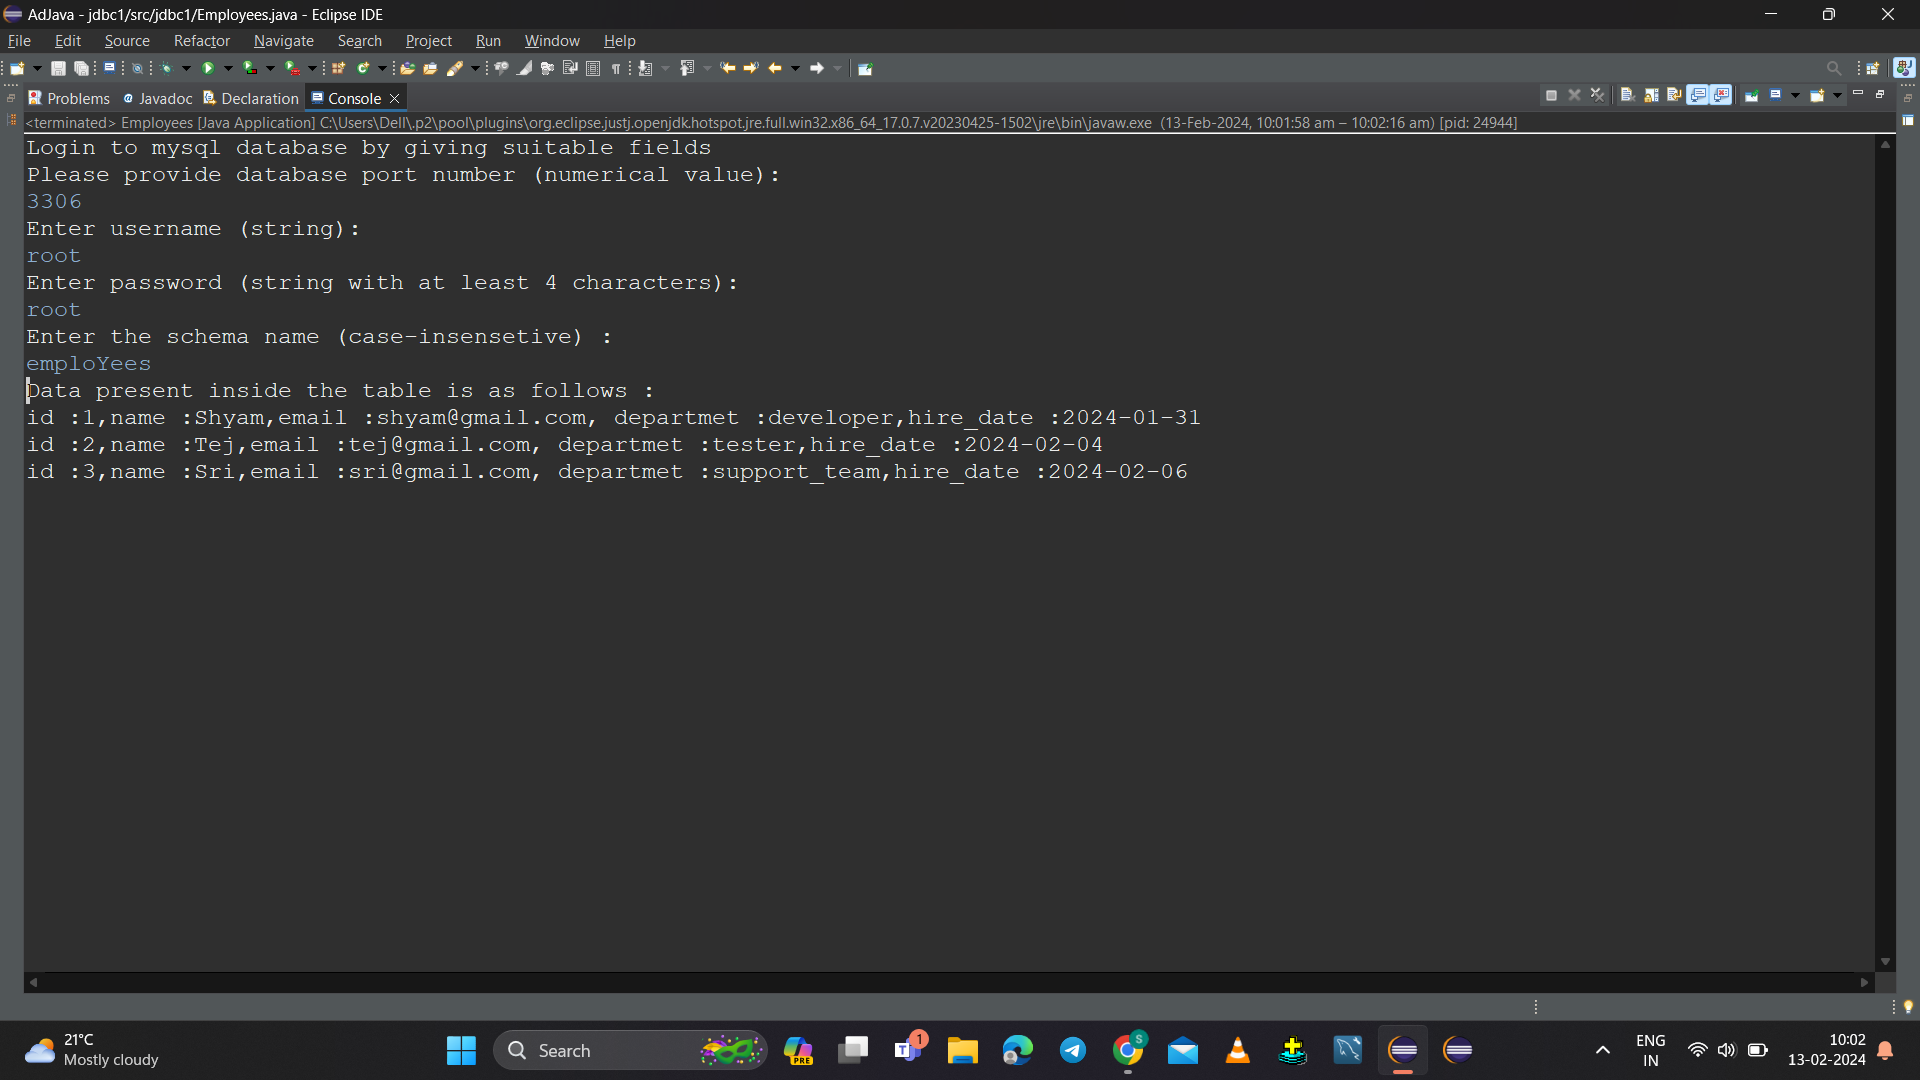
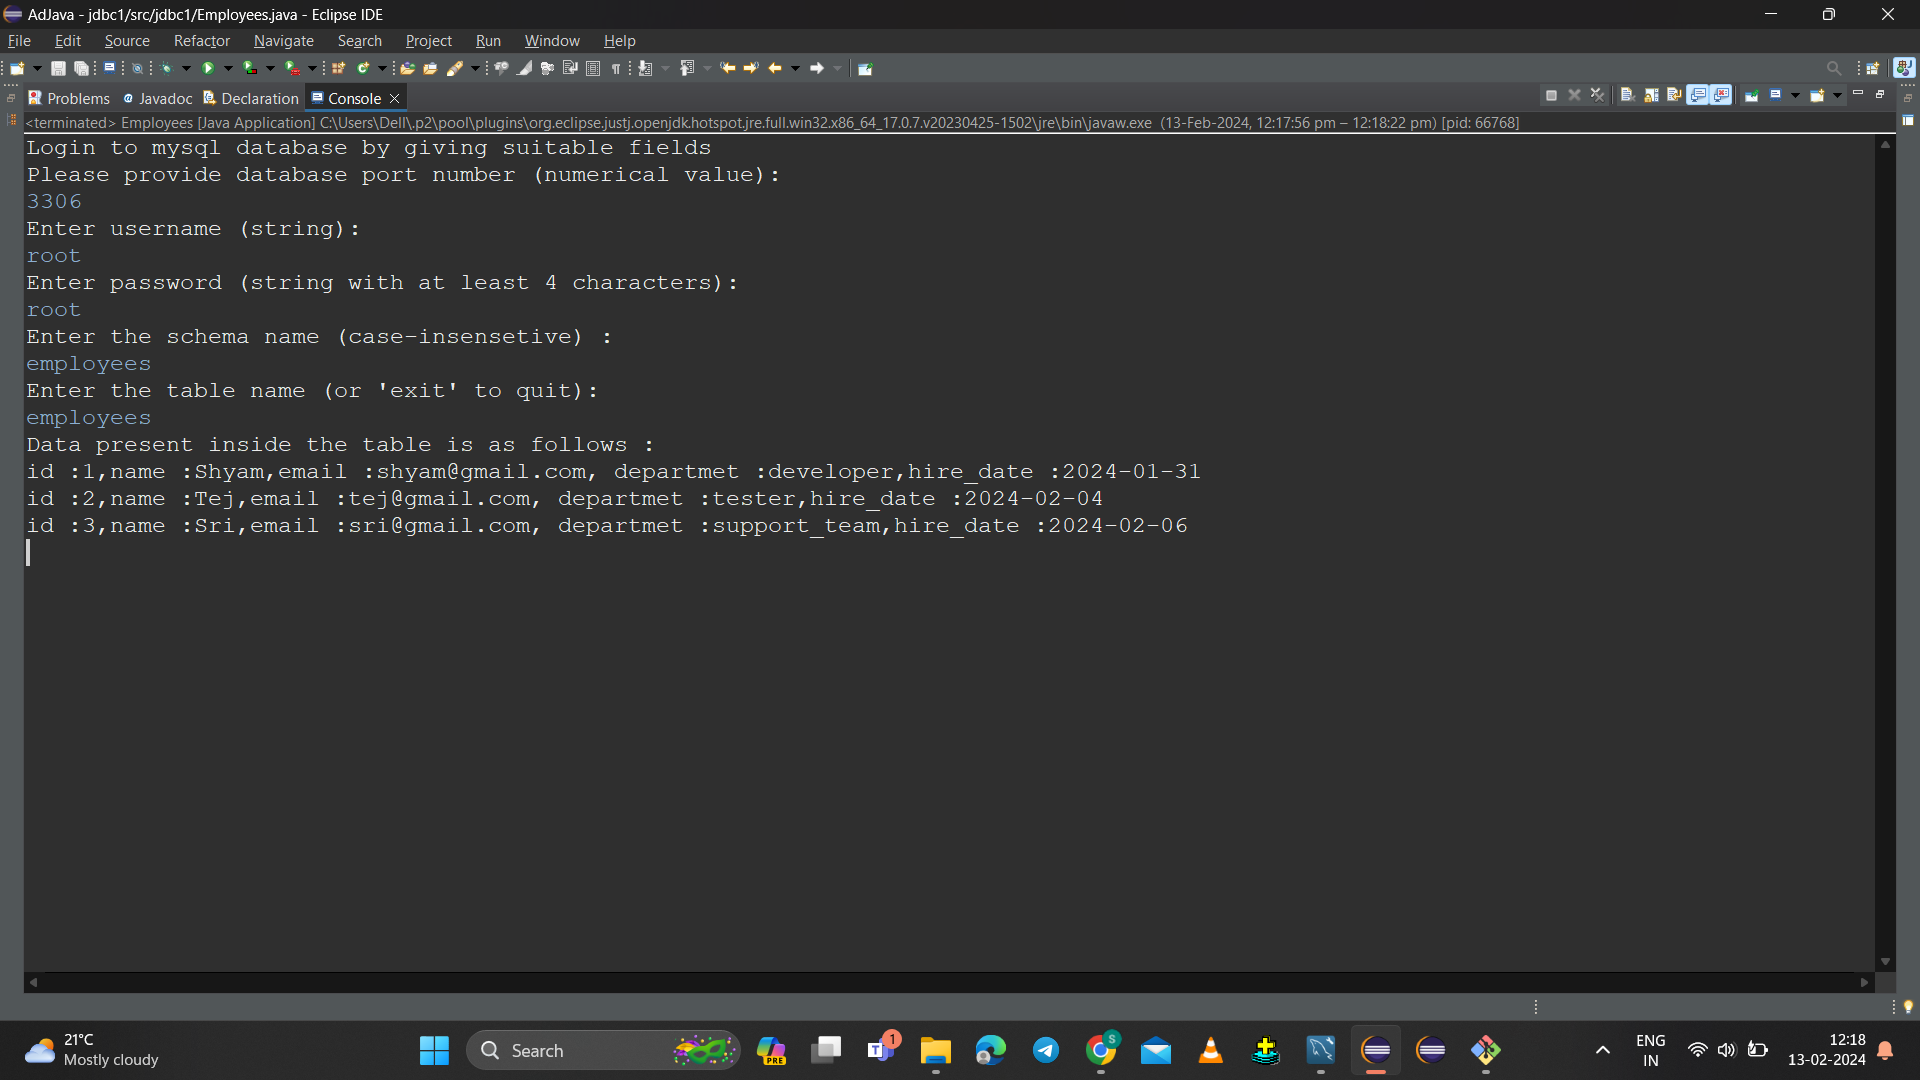
updatedFile

diff --git a/Task_6/Jdbc/EmployeesDataRetrieval/Employees.java b/Task_6/Jdbc/EmployeesDataRetrieval/Employees.java
@@ -1,6 +1,7 @@
 package jdbc1;
 
 import java.sql.Connection;
+
 import java.sql.DriverManager;
 import java.sql.ResultSet;
 import java.sql.SQLException;
@@ -11,106 +12,142 @@ public class Employees {
 	static Scanner scan = new Scanner(System.in);
 
 	public static void main(String[] args) {
-		
+
 		System.out.println("Login to mysql database by giving suitable fields ");
-		String schemaName ;
-		String user_name ;
-		String password ;
+		String schemaName;
+		String user_name;
+		String password;
 		int portNumber;
+
 		// Validate port number input
-        while (true) {
-            try {
-                System.out.println("Please provide database port number (numerical value):");
-                if (!scan.hasNextInt()) {
-                    System.out.println("Invalid input: Please enter a valid port number.");
-                    // Clear invalid input from the buffer
-                    scan.next();
-                    continue; // Retry port number input
-                } else {
-                    portNumber = scan.nextInt();
-                    break; // Valid input received, proceed
-                }
-            } catch (Exception e) {
-                System.out.println("An unexpected error occurred. Please try again.");
-                // Additional error handling could be added here
-            }
-        }
-        // User_name validation
-        while (true) {
-            System.out.println("Enter username (string):");
-            if (scan.hasNext()) {
-                user_name = scan.next();
-                // Add your specific validation rules here (e.g., length, allowed characters)
-                if (user_name.length()>=4) {
-                    break;
-                } else {
-                    // Provide informative error message
-                    System.out.println("Invalid username. Please try again.");
-                }
-            } else {
-                scan.next(); // Clear invalid input
-            }
-        }
+		while (true) {
+			try {
+				System.out.println("Please provide database port number (numerical value):");
+				if (!scan.hasNextInt()) {
+					System.out.println("Invalid input: Please enter a valid port number.");
+					// Clear invalid input from the buffer
+					scan.next();
+					continue; // Retry port number input
+				} else {
+					portNumber = scan.nextInt();
+					break; // Valid input received, proceed
+				}
+			} catch (Exception e) {
+				System.out.println("An unexpected error occurred. Please try again.");
+				// Additional error handling could be added here
+			}
+		}
+		// User_name validation
+		while (true) {
+			System.out.println("Enter username (string):");
+			if (scan.hasNext()) {
+				user_name = scan.next();
+				// Add your specific validation rules here (e.g., length, allowed characters)
+				if (user_name.length() >= 4) {
+					break;
+				} else {
+					// Provide informative error message
+					System.out.println("Invalid username. Please try again.");
+				}
+			} else {
+				scan.next(); // Clear invalid input
+			}
+		}
 
-        // Password validation
-        while (true) {
-            System.out.println("Enter password (string with at least 4 characters):");
-            if (scan.hasNext()) {
-                password = scan.next();
-                // Add your specific validation rules here (e.g., minimum length, character types)
-                if (password.length()>=4) {
-                    break;
-                } else {
-                    // Provide informative error message and consider masking the input
-                    System.out.println("Invalid password. Please try again.");
-                }
-            } else {
-                scan.next(); // Clear invalid input
-            }
-        }
+		// Password validation
+		while (true) {
+			System.out.println("Enter password (string with at least 4 characters):");
+			if (scan.hasNext()) {
+				password = scan.next();
+				// Add your specific validation rules here (e.g., minimum length, character
+				// types)
+				if (password.length() >= 4) {
+					break;
+				} else {
+					// Provide informative error message and consider masking the input
+					System.out.println("Invalid password. Please try again.");
+				}
+			} else {
+				scan.next(); // Clear invalid input
+			}
+		}
 
-       // user input for schema name 
-        System.out.println("Enter the schema name (case-insensetive) :");
-        schemaName = scan.next();
-       
+		// user input for schema name
+		System.out.println("Enter the schema name (case-insensetive) :");
+		schemaName = scan.next();
+
 		try {
 			// Register the driver or load the driver
 			Class.forName("com.mysql.cj.jdbc.Driver");
+			
 			try {
 				// Establish connection
-				Connection connection = DriverManager.getConnection(
-						"jdbc:mysql://localhost:"+portNumber+"/"+schemaName+"?user=" + user_name + "&password=" + password);
+				Connection connection = DriverManager.getConnection("jdbc:mysql://localhost:" + portNumber + "/"
+						+ schemaName + "?user=" + user_name + "&password=" + password);
 				// Creating statement
 				Statement statement = connection.createStatement();
-				// Here we are store the employee data in resultSet object
-				ResultSet resultSet = statement.executeQuery("SELECT * FROM employees");
-				System.out.println("Data present inside the table is as follows :");
-				// iterating object to get the data in it
-				while (resultSet.next()) {
-					// to access id
-					int id = resultSet.getInt(1);
-					// to access name
-					String name = resultSet.getString("name");
-					// to access email
-					String email = resultSet.getString("email");
-					// to access department
-					String departmet = resultSet.getString("department");
-					// to access hire_date
-					String hire_date = resultSet.getString("hire_date");
-					// printing the data in the console
-					System.out.println("id :" + id + "," + "name :" + name + "," + "email :" + email + ", departmet :"
-							+ departmet + "," + "hire_date :" + hire_date);
+				// checking whether the table name entered by the user is correct or not .
+				try {
+					String tableNameInSchema = "";
+					boolean validTableName = false;
+					while (!validTableName) {
+						// Prompt for table name and offer exit option
+						System.out.println("Enter the table name (or 'exit' to quit):");
+						String user_choice = scan.next();
 
+						tableNameInSchema = user_choice;
+						if (user_choice.equalsIgnoreCase("exit")) {
+							System.out.println("Exit the program");
+							break;
+						}
+
+						try {
+							// Here we are store the employee data in resultSet object
+							ResultSet dataOfEmployees = statement.executeQuery("SELECT * FROM " + tableNameInSchema);
+							System.out.println("Data present inside the table is as follows :");
+							// iterating object to get the data in it
+							while (dataOfEmployees.next()) {
+								// to access id
+								int id = dataOfEmployees.getInt(1);
+								// to access name
+								String name = dataOfEmployees.getString("name");
+								// to access email
+								String email = dataOfEmployees.getString("email");
+								// to access department
+								String departmet = dataOfEmployees.getString("department");
+								// to access hire_date
+								String hire_date = dataOfEmployees.getString("hire_date");
+								// printing the data in the console
+								System.out.println("id :" + id + "," + "name :" + name + "," + "email :" + email
+										+ ", departmet :" + departmet + "," + "hire_date :" + hire_date);
+
+							}
+							validTableName = true;
+							break;
+						} catch (SQLException e) {
+							if (e.getErrorCode() == 1146) { // Table doesn't exist
+								System.out.println("Error: Table 'employees' does not exist in the schema '"
+										+ schemaName
+										+ "'.");
+							} else {
+								System.out.println("Database error: " + e.getMessage());
+							}
+						}
+					}
+			
+				} finally {
+					// closing statement flow with database
+					statement.close();
+					// closing the connection database
+					connection.close();
 				}
-				// closing statement flow with database
-				statement.close();
-				// closing the connection database
-				connection.close();
-			} catch (SQLException e) {
-				System.out.println(
-						"Please check the localhost number  or user_name or password you provide may be wrong");
+
+				} catch (SQLException e) {
+					System.out.println(
+							"Please check the localhost number  or user_name or password you provide may be wrong");
 //				e.printStackTrace();
-			}
+				}
+
 		} catch (ClassNotFoundException e) {
 
 			System.out.println("Your not registering the databse driver proper. Please check it and make it correct");
